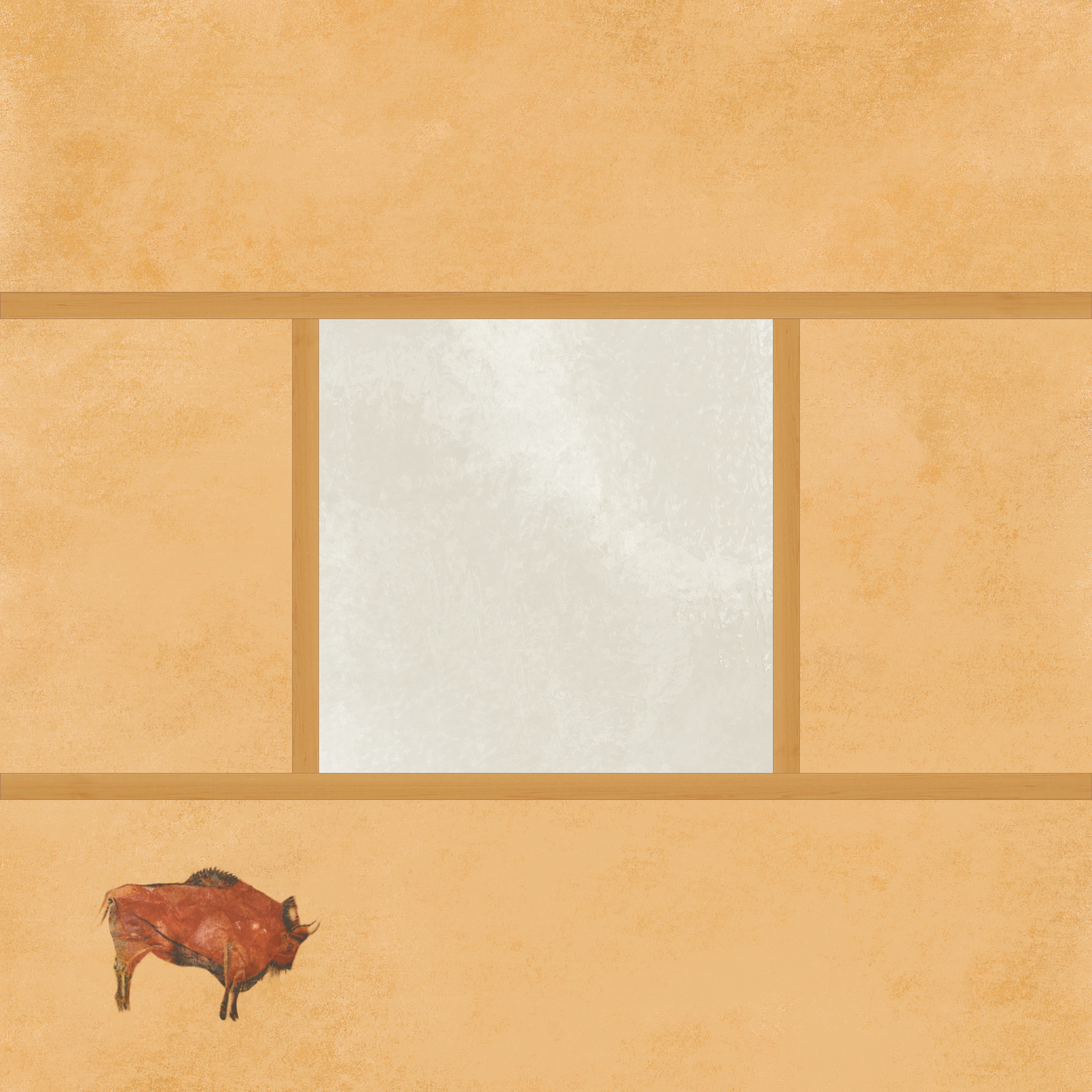
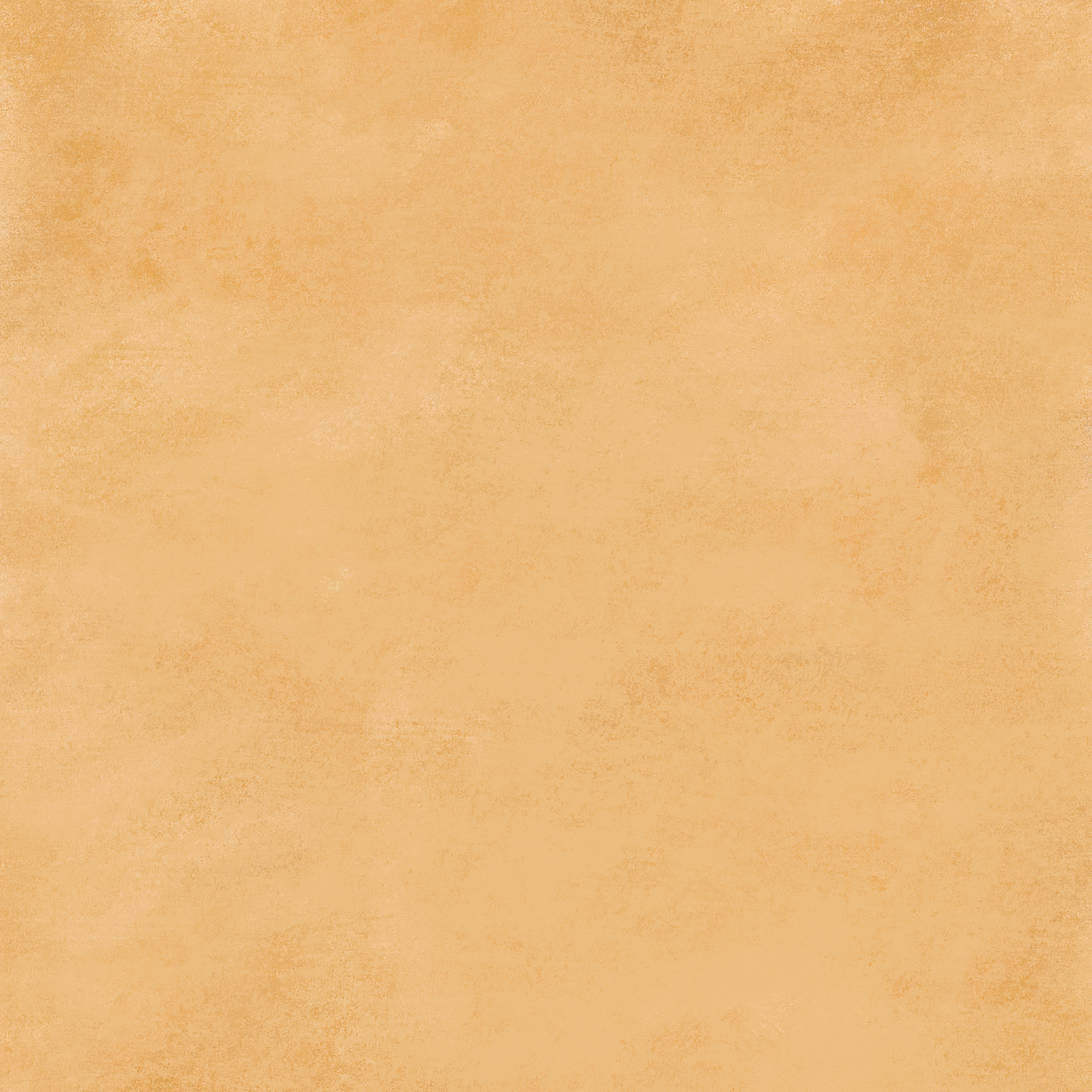
Swapped images of wall 1 and 3, changed the celing and the wall

Changed region(s): [[0.0, 0.2466, 1.0, 0.7399], [0.0925, 0.7708, 0.3083, 0.9558]]

diff --git a/app/page.tsx b/app/page.tsx
@@ -168,13 +168,13 @@ export default function Home() {
 
               {/* Walls */}
               {/* Wall 1 - Back wall */}
-              <Wall position={[0, 3.75, -10]} texturePath="/Back_Wall.jpg" />
+              <Wall position={[0, 3.75, -10]} texturePath="/Front_Wall.jpg" />
               {/* Wall 4 - Left wall */}
               <Wall position={[-10, 3.75, 0]} rotation={[0, Math.PI / 2, 0]} texturePath="/Wall.jpg" />
               {/* Wall 2 - Right wall */}
               <Wall position={[10, 3.75, 0]} rotation={[0, -Math.PI / 2, 0]} texturePath="/Wall.jpg" />
               {/* Wall 3 - Front wall */}
-              <Wall position={[0, 3.75, 10]} rotation={[0, Math.PI, 0]} texturePath="/Front_Wall.jpg" />
+              <Wall position={[0, 3.75, 10]} rotation={[0, Math.PI, 0]} texturePath="/Back_Wall.jpg" />
 
               {/* Artworks - Loop through all artworks */}
               {artworks.map((artwork) => (
